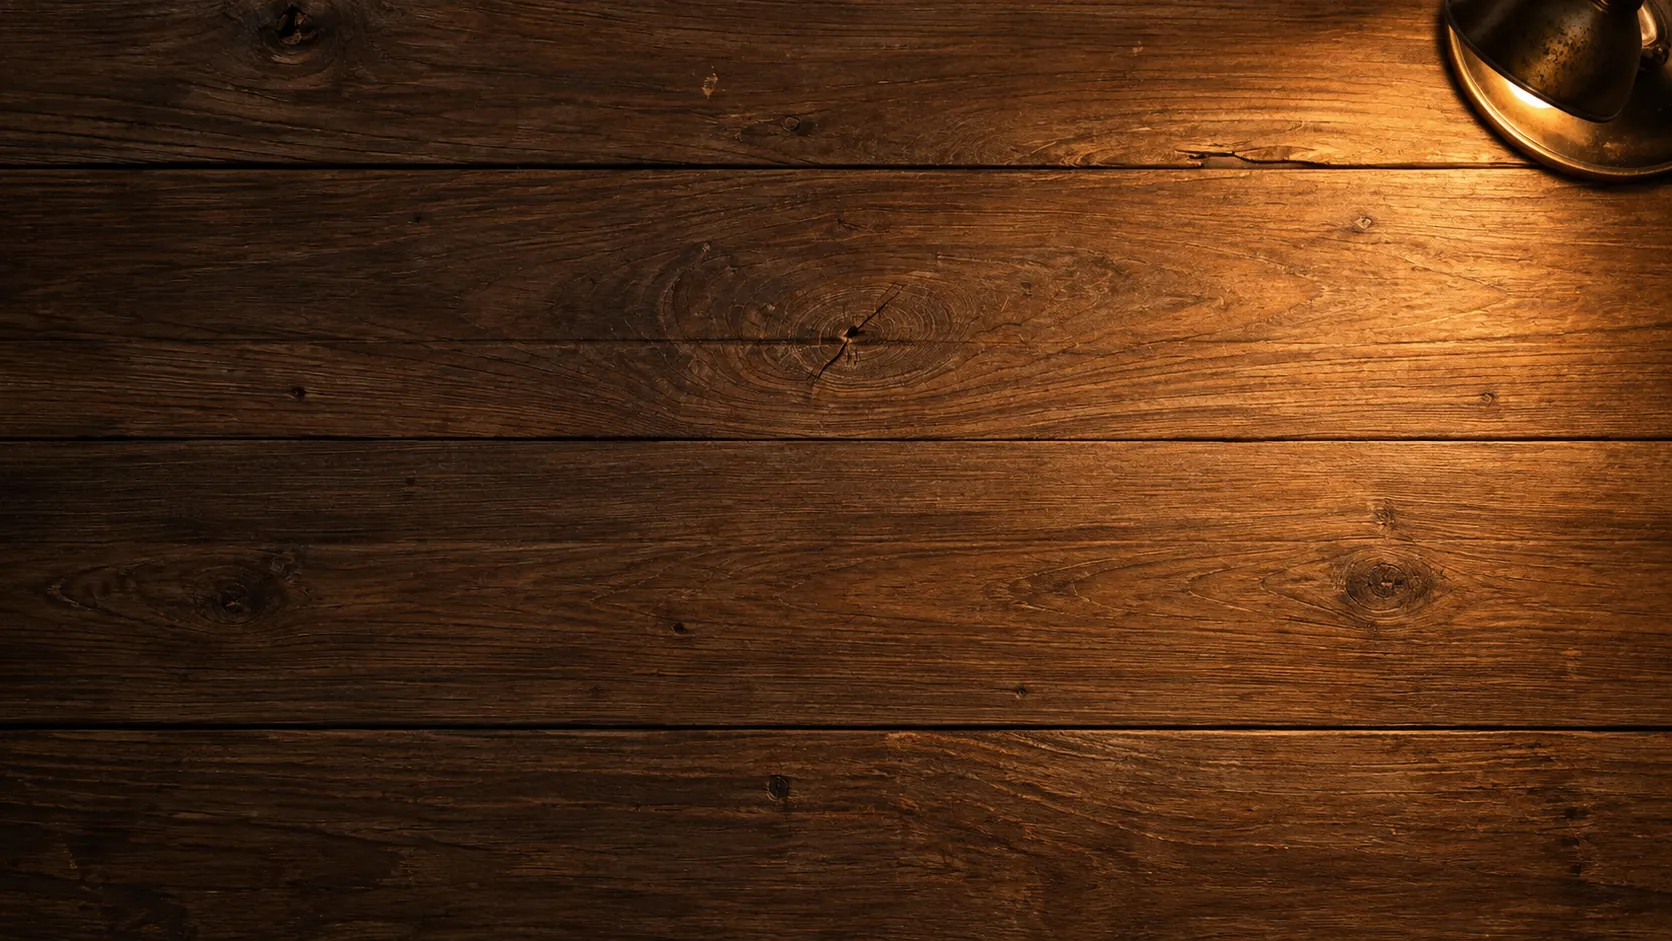
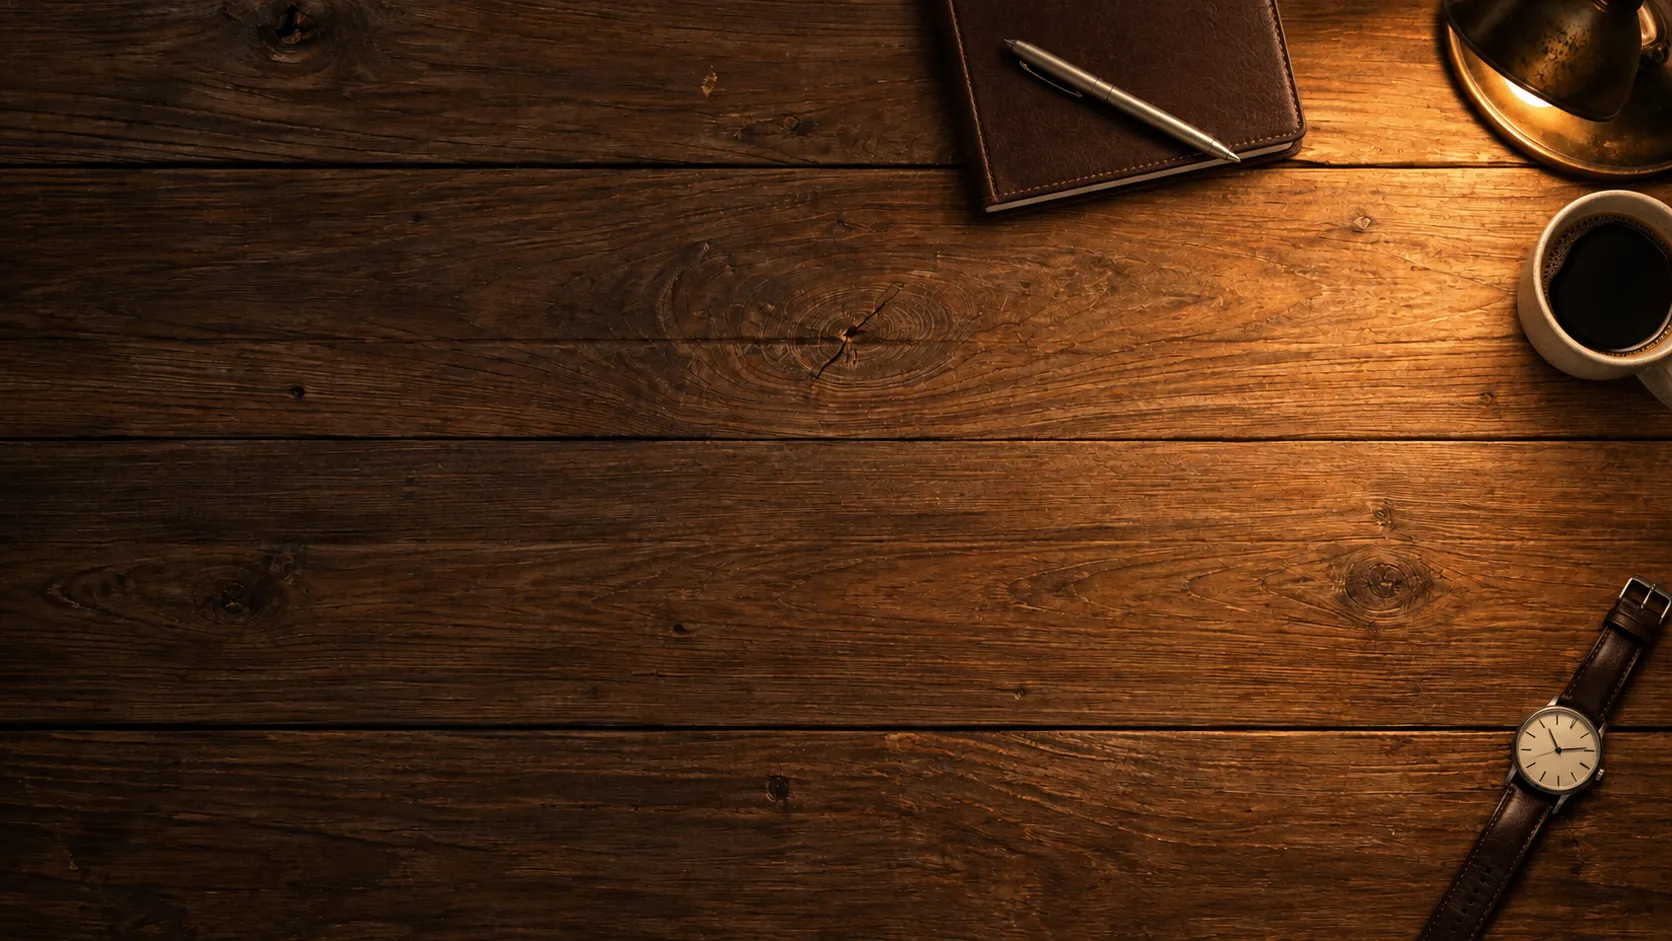
Portada: mesa con libreta, taza y reloj; fotos ancladas al fondo con luz y sombra de la lámpara
Claude-Session: https://claude.ai/code/session_0172SyVS6vmWH6fbhZqJAQsW

diff --git a/app/globals.css b/app/globals.css
@@ -647,80 +647,116 @@ p { text-wrap: pretty; }
 .visto:hover .visto-nombre { color: var(--tabaco); }
 
 /* =============================================================
-   Portada "mesa": fotos tipo polaroid que caen sobre la madera
+   Portada "mesa": polaroids apoyadas sobre la mesa de madera
+   La foto de la mesa mide 1672 x 941. .mesa-lienzo mantiene esa proporción
+   (como background-size: cover) y las fotos se ubican en % de ella.
    ============================================================= */
 .hero-mesa {
   position: relative; isolation: isolate; overflow: hidden;
   grid-template-columns: 5fr 6fr;
-  background: #1b120b url(/portada/mesa.webp) right top / cover no-repeat;
+  height: calc(100svh - var(--nav-h)); min-height: 600px; max-height: 1000px;
+  background: #1b120b;
 }
-/* Oscurece la izquierda para que el texto se lea; deja la derecha con la luz de la lámpara */
+.mesa-escena {
+  position: absolute; inset: 0; z-index: -2;
+  container-type: size;
+}
+.mesa-lienzo {
+  --lw: max(100cqw, 100cqh * 1672 / 941);
+  --lh: max(100cqh, 100cqw * 941 / 1672);
+  position: absolute; right: 0;
+  width: var(--lw); height: var(--lh);
+  top: calc((100cqh - var(--lh)) * 0.3);
+  background: url(/portada/mesa.webp) center / 100% 100% no-repeat;
+}
+/* Oscurece la izquierda para que el texto se lea */
 .hero-mesa::before {
   content: ''; position: absolute; inset: 0; z-index: -1; pointer-events: none;
-  background: linear-gradient(90deg, rgba(18,11,6,0.9) 0%, rgba(18,11,6,0.72) 32%, rgba(18,11,6,0.15) 62%, rgba(18,11,6,0) 80%);
-}
-/* Luz cálida de la lámpara: aparece suave al cargar */
-.hero-mesa::after {
-  content: ''; position: absolute; inset: 0; z-index: -1; pointer-events: none;
-  background: radial-gradient(circle at 93% 6%, rgba(255,186,105,0.22), rgba(255,186,105,0.06) 30%, transparent 50%);
-  animation: fundido 1.6s 0.1s ease-out both;
+  background: linear-gradient(90deg, rgba(18,11,6,0.9) 0%, rgba(18,11,6,0.7) 30%, rgba(18,11,6,0.12) 52%, rgba(18,11,6,0) 62%);
 }
 .hero-mesa .hero-texto { position: relative; z-index: 2; }
 
-.mesa-fotos { position: relative; min-height: 560px; }
 .polaroid {
-  position: absolute; margin: 0; width: 25%;
+  position: absolute; margin: 0; width: 11.2%;
   transform: rotate(var(--r));
   animation: asienta-foto 1.4s var(--delay) cubic-bezier(0.22, 0.61, 0.36, 1) both;
 }
-.polaroid-1 { left: 7%;  top: 11%; z-index: 1; }
-.polaroid-2 { left: 52%; top: 7%;  z-index: 2; }
-.polaroid-3 { left: 17%; top: 52%; z-index: 3; }
-.polaroid-4 { left: 59%; top: 49%; z-index: 4; }
+/* Posiciones en % de la foto de la mesa: libres de la libreta, lámpara, taza y reloj */
+.polaroid-1 { left: 54.5%; top: 26%; --lx: 130%; --ly: -45%; --oscuro: 0.42; }
+.polaroid-2 { left: 71.5%; top: 28.5%; --lx: 105%; --ly: -60%; --oscuro: 0.24; }
+.polaroid-3 { left: 57%; top: 58%; --lx: 150%; --ly: -110%; --oscuro: 0.5; }
+.polaroid-4 { left: 73.5%; top: 56%; --lx: 115%; --ly: -105%; --oscuro: 0.38; }
 
-/* Las fotos se tiñen con la luz de la mesa para que parezcan apoyadas en ella */
+/* La luz viene de la lámpara (arriba a la derecha): la sombra cae abajo a la izquierda */
 .polaroid-papel {
   position: relative;
-  box-shadow: 0 1px 2px rgba(0,0,0,0.55), 0 10px 22px rgba(10,5,2,0.55);
+  box-shadow:
+    -1px 1px 1px rgba(10,5,2,0.55),
+    -6px 8px 10px rgba(10,5,2,0.45),
+    -16px 20px 28px rgba(10,5,2,0.35);
   transition: transform 0.6s var(--ease), box-shadow 0.6s var(--ease);
 }
 .polaroid-papel img {
   display: block; width: 100%; height: auto;
-  filter: sepia(0.32) saturate(1.02) brightness(0.9) contrast(0.97);
+  filter: sepia(0.32) saturate(1) brightness(0.9) contrast(0.97);
 }
-/* Luz que viene de la lámpara (arriba a la derecha) y sombra hacia abajo a la izquierda */
+/* Tinte cálido y caída de luz: más claro hacia la lámpara, más oscuro al otro lado */
 .polaroid-papel::after {
   content: ''; position: absolute; inset: 0; pointer-events: none;
-  background: linear-gradient(215deg, rgba(255,200,130,0.30) 0%, rgba(225,150,85,0.30) 50%, rgba(110,60,25,0.42) 100%);
+  background:
+    radial-gradient(circle at var(--lx) var(--ly), rgba(255,205,140,0.0) 0%, rgba(150,85,35,0.18) 55%, rgba(40,20,6, var(--oscuro)) 120%),
+    linear-gradient(rgba(235,165,95,0.22), rgba(235,165,95,0.22));
   mix-blend-mode: multiply;
 }
-.polaroid-1 .polaroid-papel::after, .polaroid-3 .polaroid-papel::after {
-  background: linear-gradient(215deg, rgba(235,160,95,0.30) 0%, rgba(170,100,50,0.36) 55%, rgba(70,38,15,0.52) 100%);
+/* Brillo suave de la lámpara sobre el papel */
+.polaroid-papel::before {
+  content: ''; position: absolute; inset: 0; z-index: 1; pointer-events: none;
+  background: radial-gradient(circle at var(--lx) var(--ly), rgba(255,200,120,0.28), transparent 70%);
+  mix-blend-mode: soft-light;
 }
 @media (hover: hover) and (pointer: fine) {
   .polaroid:hover { z-index: 10; }
   .polaroid:hover .polaroid-papel {
-    transform: translateY(-4px);
-    box-shadow: 0 2px 3px rgba(0,0,0,0.5), 0 18px 32px rgba(10,5,2,0.55);
+    transform: translate(1px, -3px);
+    box-shadow:
+      -1px 1px 1px rgba(10,5,2,0.45),
+      -9px 12px 14px rgba(10,5,2,0.42),
+      -22px 28px 36px rgba(10,5,2,0.32);
   }
 }
 /* Entrada sobria: la foto aparece y se asienta sobre la mesa, sin rebotes */
 @keyframes asienta-foto {
-  from { opacity: 0; transform: translateY(-14px) rotate(calc(var(--r) + 1.5deg)) scale(1.02); }
+  from { opacity: 0; transform: translateY(-12px) rotate(calc(var(--r) + 1.2deg)) scale(1.02); }
   to   { opacity: 1; transform: rotate(var(--r)) scale(1); }
+}
+/* Luz cálida de la lámpara: aparece suave al cargar */
+.mesa-lienzo::after {
+  content: ''; position: absolute; inset: 0; pointer-events: none;
+  background: radial-gradient(circle at 92% 6%, rgba(255,186,105,0.2), rgba(255,186,105,0.05) 28%, transparent 46%);
+  animation: fundido 1.6s 0.1s ease-out both;
 }
 
 @media (max-width: 900px) {
-  .hero-mesa { grid-template-columns: 1fr; background-position: 70% top; }
-  .hero-mesa::before { background: linear-gradient(180deg, rgba(18,11,6,0.05) 0%, rgba(18,11,6,0.25) 40%, rgba(18,11,6,0.88) 62%, rgba(18,11,6,0.92) 100%); }
-  .mesa-fotos { order: -1; min-height: 0; width: min(100%, 560px); margin: 0 auto; height: min(96vw, 560px); }
-  .polaroid { width: 35%; }
-  .polaroid-1 { left: 6%;  top: 5%; }
-  .polaroid-2 { left: 56%; top: 3%; }
-  .polaroid-3 { left: 11%; top: 50%; }
-  .polaroid-4 { left: 55%; top: 48%; }
+  .hero-mesa { grid-template-columns: 1fr; height: auto; max-height: none; min-height: 0; }
+  .hero-mesa::before { display: none; }
+  /* En celular la mesa va arriba, mostrando la parte derecha (donde están las fotos) */
+  .mesa-escena { position: relative; inset: auto; order: -1; z-index: 0; width: 100%; height: 92vw; overflow: hidden; }
+  .mesa-lienzo {
+    --lw: 200cqw; --lh: calc(200cqw * 941 / 1672);
+    top: calc(var(--lh) * -0.17);
+  }
+  .mesa-escena::after {
+    content: ''; position: absolute; left: 0; right: 0; bottom: 0; height: 22%;
+    background: linear-gradient(transparent, #1b120b); pointer-events: none;
+  }
+  .polaroid { width: 13.5%; }
+  .polaroid-1 { left: 51%; top: 22%; }
+  .polaroid-2 { left: 70%; top: 25%; }
+  .polaroid-3 { left: 53%; top: 57%; }
+  .polaroid-4 { left: 71%; top: 55%; }
+  .hero-mesa .hero-texto { padding-top: 1.5rem; }
 }
 @media (prefers-reduced-motion: reduce) {
   .polaroid { animation-name: fundido; }
-  .hero-mesa::after { animation: none; }
+  .mesa-lienzo::after { animation: none; }
 }

diff --git a/app/inicio/page.js b/app/inicio/page.js
@@ -65,12 +65,12 @@ async function getProductosDestacados() {
     }));
 }
 
-// Portada: fotos tipo polaroid que caen sobre la mesa (en public/portada/)
+// Portada: fotos tipo polaroid apoyadas sobre la mesa (en public/portada/)
 const POLAROIDS = [
-  { src: '/portada/foto-cama.webp', giro: '-5deg', desde: '0px' },
-  { src: '/portada/foto-ascensor.webp', giro: '3deg', desde: '0px' },
-  { src: '/portada/foto-bicolor.webp', giro: '4deg', desde: '0px' },
-  { src: '/portada/foto-doblados.webp', giro: '-4deg', desde: '0px' },
+  { src: '/portada/foto-cama.webp', giro: '-5deg' },
+  { src: '/portada/foto-ascensor.webp', giro: '4deg' },
+  { src: '/portada/foto-bicolor.webp', giro: '3deg' },
+  { src: '/portada/foto-doblados.webp', giro: '-3deg' },
 ];
 
 const RAZONES = [
@@ -105,18 +105,23 @@ export default async function Home() {
             <Link href="/guia-de-tallas" className="btn btn-linea">Encontrar mi talla</Link>
           </div>
         </div>
-        <div className="mesa-fotos" role="img" aria-label="Fotos de polos SUMACK sobre una mesa de madera">
-          {POLAROIDS.map((f, i) => (
-            <figure
-              key={f.src}
-              className={`polaroid polaroid-${i + 1}`}
-              style={{ '--r': f.giro, '--delay': `${0.5 + i * 0.18}s`, '--desde': f.desde }}
-            >
-              <div className="polaroid-papel">
-                <img src={f.src} alt="" width="700" height="875" fetchPriority={i < 2 ? 'high' : 'auto'} />
-              </div>
-            </figure>
-          ))}
+        {/* La mesa es un "lienzo" con la proporción exacta de la foto de fondo:
+            las polaroids se ubican en % de ese lienzo, así nunca tapan la lámpara,
+            la libreta, la taza ni el reloj, en ninguna pantalla. */}
+        <div className="mesa-escena" role="img" aria-label="Fotos de polos SUMACK sobre una mesa de madera">
+          <div className="mesa-lienzo">
+            {POLAROIDS.map((f, i) => (
+              <figure
+                key={f.src}
+                className={`polaroid polaroid-${i + 1}`}
+                style={{ '--r': f.giro, '--delay': `${0.5 + i * 0.18}s` }}
+              >
+                <div className="polaroid-papel">
+                  <img src={f.src} alt="" width="700" height="875" fetchPriority={i < 2 ? 'high' : 'auto'} />
+                </div>
+              </figure>
+            ))}
+          </div>
         </div>
       </section>
 
